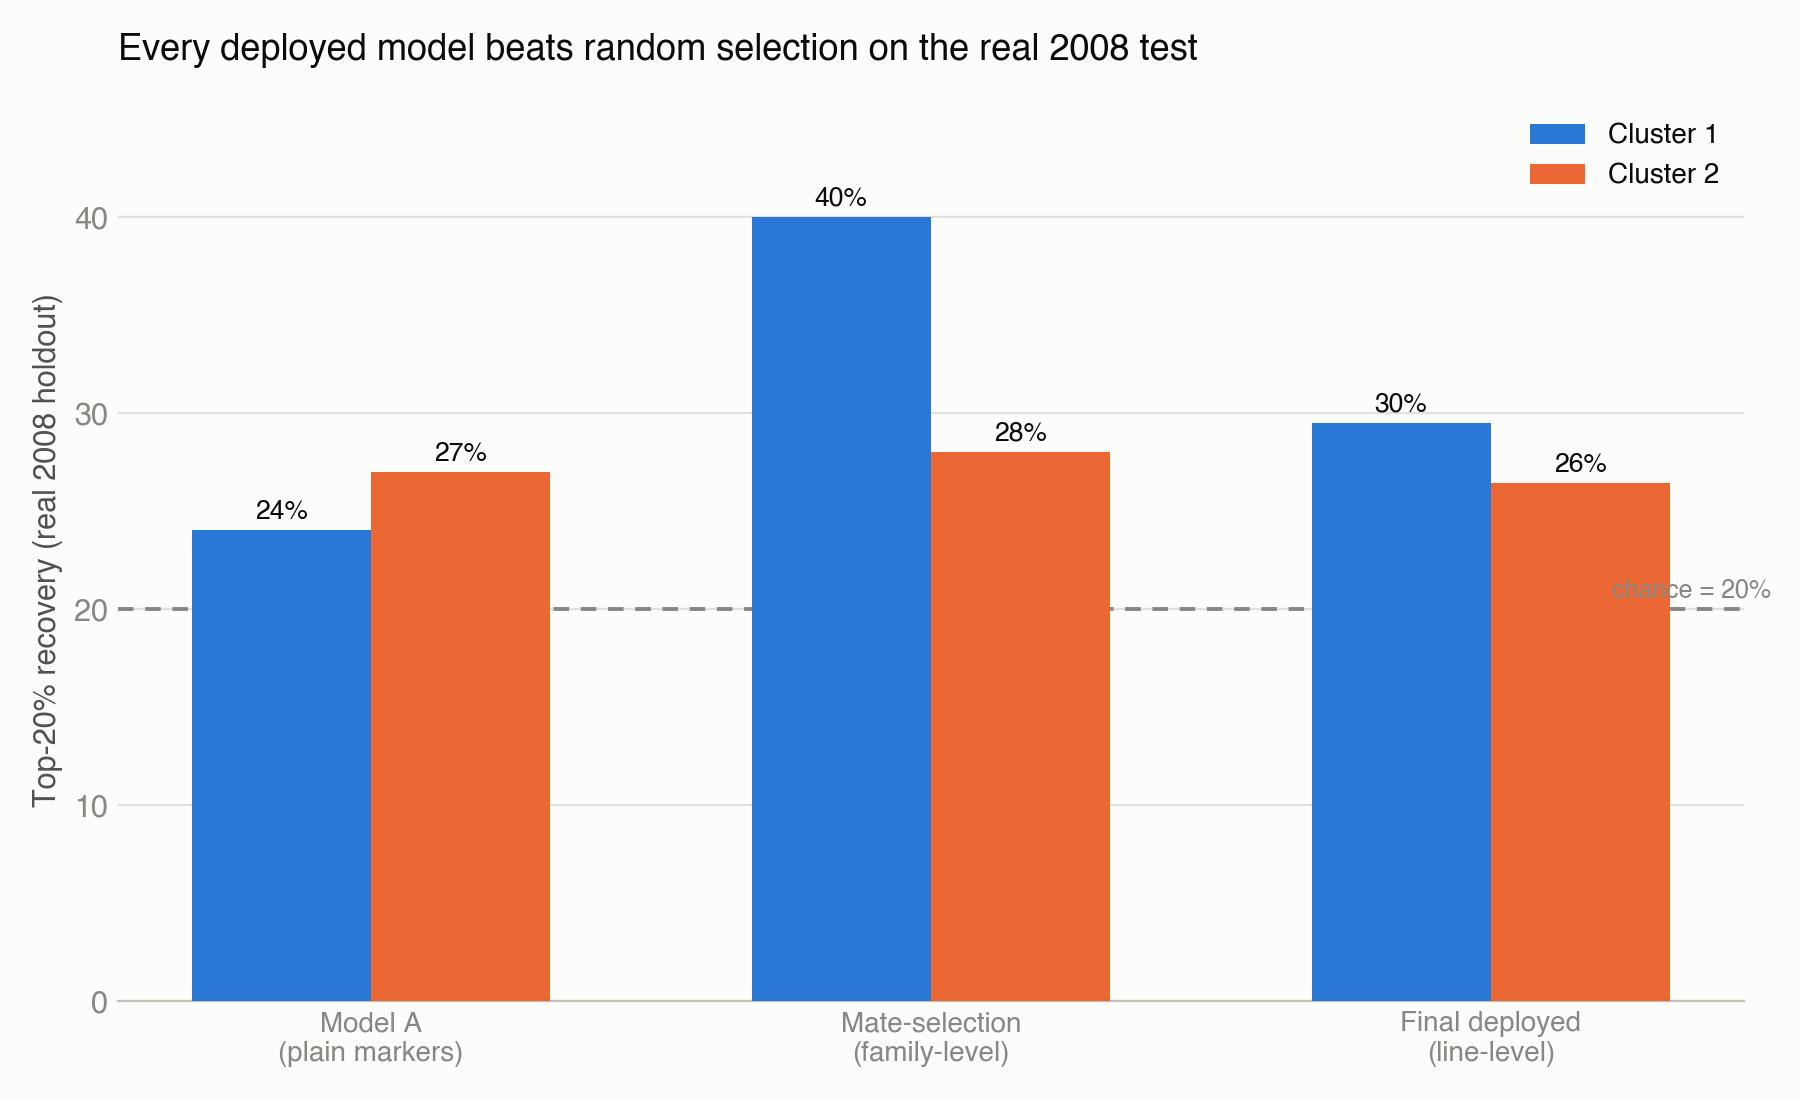
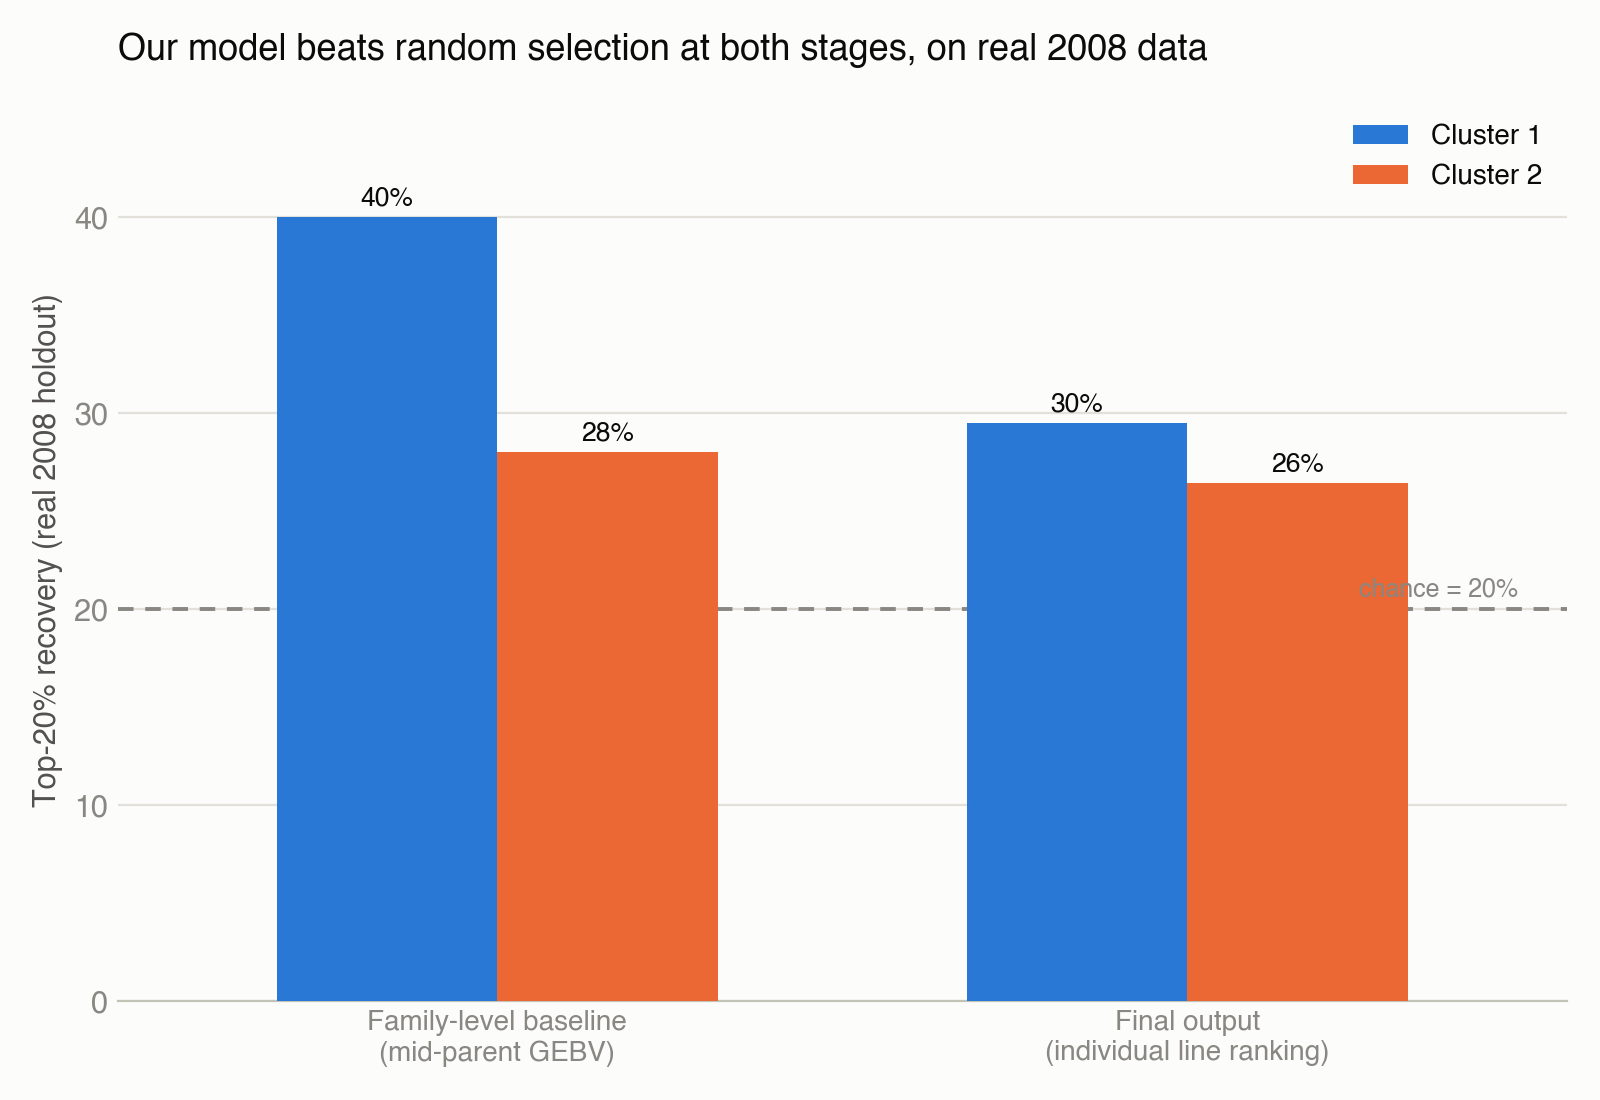
Remove Model A reference from comparison chart -- one model, two views
Chart 2 previously labeled a bar "Model A (plain markers)", implying a
separate competing model still existed. Reframed as two views of the single
deployed system (family-level mid-parent GEBV baseline vs. the final
individual-line ranking), matching the actual codebase after the cleanup.

Claude-Session: https://claude.ai/code/session_01CAaA2fXEycC6GghGECHHQu

diff --git a/notebooks/make_figures.py b/notebooks/make_figures.py
@@ -79,27 +79,28 @@ plt.close(fig)
 
 
 # ============================================================
-# FIGURE 2: Model comparison -- top-20% recovery, real 2008 test
+# FIGURE 2: Our one model, two views -- family-level and line-level
 # ============================================================
-fig, ax = plt.subplots(figsize=(9, 5.5), dpi=200)
-models = ["Model A\n(plain markers)", "Mate-selection\n(family-level)", "Final deployed\n(line-level)"]
-c1_rec = [24, 40, 29.5]
-c2_rec = [27, 28, 26.4]
+fig, ax = plt.subplots(figsize=(8, 5.5), dpi=200)
+models = ["Family-level baseline\n(mid-parent GEBV)", "Final output\n(individual line ranking)"]
+c1_rec = [40, 29.5]
+c2_rec = [28, 26.4]
 x = np.arange(len(models))
 w = 0.32
 b1 = ax.bar(x - w/2, c1_rec, width=w, color=BLUE, label="Cluster 1", zorder=3)
 b2 = ax.bar(x + w/2, c2_rec, width=w, color=ORANGE, label="Cluster 2", zorder=3)
 ax.axhline(20, color=INK_MUTED, linewidth=1.4, linestyle=(0, (4, 3)), zorder=2)
-ax.text(2.5, 20.6, "chance = 20%", fontsize=9, color=INK_MUTED, ha="right")
+ax.text(1.48, 20.6, "chance = 20%", fontsize=9, color=INK_MUTED, ha="right")
 for bars in (b1, b2):
     for bar in bars:
         h = bar.get_height()
         ax.annotate(f"{h:.0f}%", (bar.get_x() + bar.get_width()/2, h),
                     xytext=(0, 4), textcoords="offset points", ha="center", fontsize=9.5)
 ax.set_xticks(x); ax.set_xticklabels(models, fontsize=10)
+ax.set_xlim(-0.55, 1.55)
 ax.set_ylabel("Top-20% recovery (real 2008 holdout)")
 ax.set_ylim(0, 46)
-ax.set_title("Every deployed model beats random selection on the real 2008 test", fontsize=13, fontweight="bold", pad=14, loc="left")
+ax.set_title("Our model beats random selection at both stages, on real 2008 data", fontsize=13, fontweight="bold", pad=14, loc="left")
 style_ax(ax)
 ax.legend(frameon=False, loc="upper right", fontsize=10)
 fig.tight_layout()
